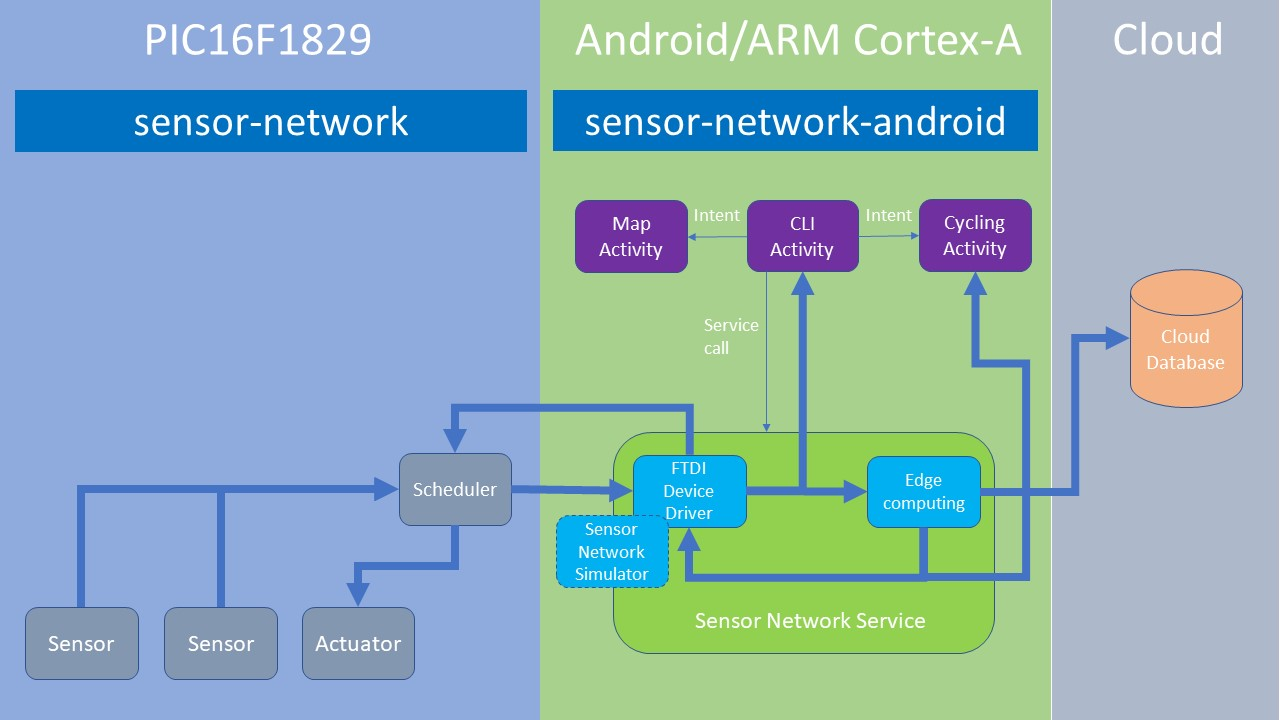
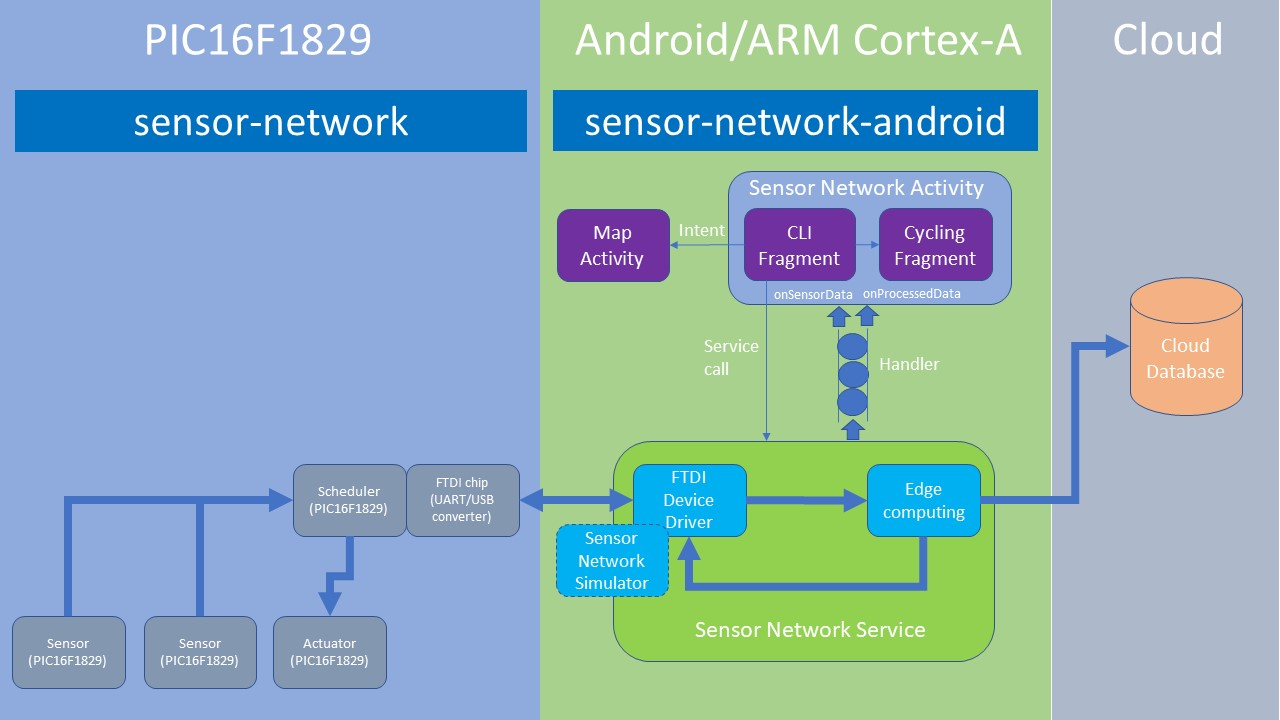
update

Changed region(s): [[0.0, 0.2139, 0.8438, 0.9778], [0.8438, 0.3667, 0.9688, 0.5806], [0.4688, 0.8556, 0.7812, 0.9167]]

diff --git a/src/app/src/main/java/jp/araobp/iot/sensor_network/SensorNetworkService.kt b/src/app/src/main/java/jp/araobp/iot/sensor_network/SensorNetworkService.kt
@@ -21,7 +21,7 @@ abstract class SensorNetworkService: Service() {
 
     val TAG = "SensorNetworkService"
 
-    private var mRxHandler: Handler? = null
+    private var mSensorDataHandler: Handler? = null
     protected var mSensorDataHandlerActivity: SensorDataHandlerActivity? = null
 
     private val mEdgeComputing: EdgeComputing = Cycling()
@@ -66,9 +66,9 @@ abstract class SensorNetworkService: Service() {
      *
      * @see SensorDataHandlerActivity
      */
-    fun setSensorDataHandlerActivity(sensorDataHandlerActivity: SensorDataHandlerActivity) {
+    fun setSensorDataHandler(sensorDataHandlerActivity: SensorDataHandlerActivity) {
         mSensorDataHandlerActivity = sensorDataHandlerActivity
-        mRxHandler = object : Handler() {
+        mSensorDataHandler = object : Handler() {
             override fun handleMessage(msg: Message) {
                 if (mSensorDataHandlerActivity != null) {
                     mSensorDataHandlerActivity!!.onSensorData(msg.obj as SensorData)
@@ -88,7 +88,7 @@ abstract class SensorNetworkService: Service() {
         fun sendMessage(msg: SensorData) {
             val msg = Message.obtain()
             msg.obj = sensorData
-            mRxHandler?.sendMessage(msg)
+            mSensorDataHandler?.sendMessage(msg)
         }
 
         when (message.substring(startIndex = 0, endIndex = 1)) {

diff --git a/src/app/src/main/java/jp/araobp/iot/ui/CliActivity.kt b/src/app/src/main/java/jp/araobp/iot/ui/CliActivity.kt
@@ -195,7 +195,7 @@ class CliActivity : SensorDataHandlerActivity() {
         }
 
         mButtonVisualizerCycling!!.setOnClickListener {
-            val intent = Intent(this@CliActivity, CyclingVisualizerActivity::class.java)
+            val intent = Intent(this@CliActivity, CyclingActivity::class.java)
             startActivity(intent)
         }
 
@@ -209,7 +209,7 @@ class CliActivity : SensorDataHandlerActivity() {
         override fun onServiceConnected(name: ComponentName?, service: IBinder?) {
             val binder = service as SensorNetworkService.ServiceBinder
             mSensorNetworkService = binder.getService()
-            mSensorNetworkService!!.setSensorDataHandlerActivity(this@CliActivity)
+            mSensorNetworkService!!.setSensorDataHandler(this@CliActivity)
             mSensorNetworkService!!.openDevice(mBaudrate)
             log(if (mSensorNetworkService!!.driverStatus.opened) "Sensor network connected" else "Unable to connect sensor network")
             mSensorNetworkService!!.fetchSchedulerInfo()

diff --git a/src/app/src/main/java/jp/araobp/iot/ui/CyclingActivity.kt b/src/app/src/main/java/jp/araobp/iot/ui/CyclingActivity.kt
@@ -3,8 +3,10 @@ package jp.araobp.iot.ui
 import android.app.Activity
 import android.os.Bundle
 import android.view.MenuItem
+import jp.araobp.iot.sensor_network.SensorDataHandlerActivity
+import jp.araobp.iot.sensor_network.SensorNetworkService
 
-class CyclingVisualizerActivity : Activity() {
+class CyclingActivity : SensorDataHandlerActivity() {
     override fun onCreate(savedInstanceState: Bundle?) {
         super.onCreate(savedInstanceState)
         setContentView(R.layout.activity_cycling_visualizer)
@@ -17,5 +19,9 @@ class CyclingVisualizerActivity : Activity() {
             android.R.id.home -> this.finish()
         }
         return true
+    }
+
+    override fun onSensorData(sensorData: SensorNetworkService.SensorData) {
+        TODO("not implemented") //To change body of created functions use File | Settings | File Templates.
     }
 }
